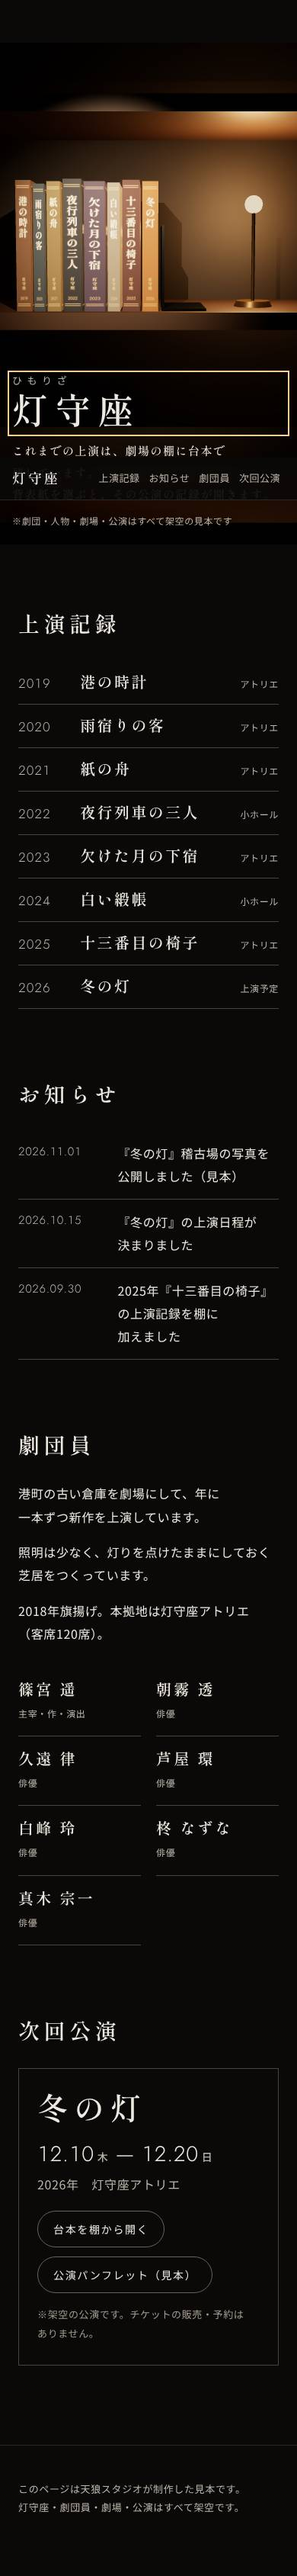
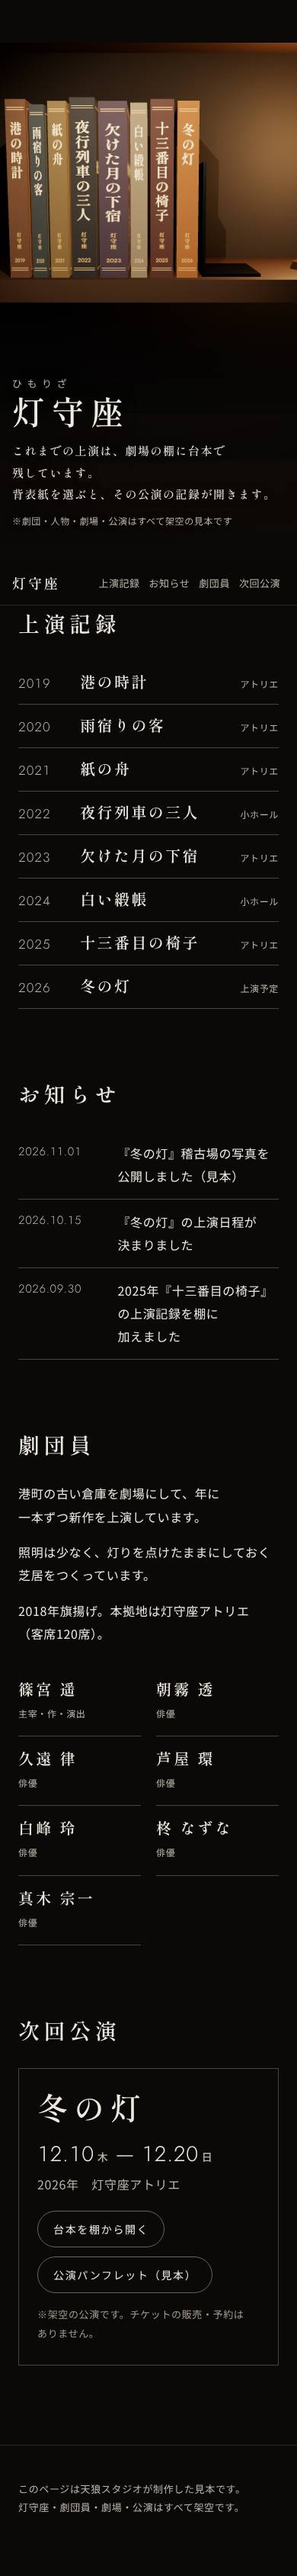
S02-03：審査1回目の指摘を反映（facts に無い通し番号を消す、台本を抜く予備動作とばねの回転、選んだ本に一灯を寄せる、表紙に配役、スマホの構図、不明な id、キーボードで背表紙を選ぶ）
Claude-Session: https://claude.ai/code/session_01BwmUGTgfPEj1Tu5124aDtq

Changed region(s): [[0.0, 0.0, 1.0, 0.2176], [0.1538, 0.2176, 0.1846, 0.2487]]

diff --git a/studio/projects/S02-03-troupe-site/site/app.js b/studio/projects/S02-03-troupe-site/site/app.js
@@ -30,13 +30,14 @@ if (nx) {
 }
 
 // 記録を開く・閉じる（#/w/<id> で開き、#/ で棚に戻す）
-let onSelect = () => {};
+let onSelect = () => {}, lastLink = null;
+document.addEventListener('click', e => { const a = e.target.closest && e.target.closest('a[href^="#/w/"]'); if (a) lastLink = a; });
 function route() {
   const m = location.hash.match(/^#\/w\/([\w-]+)/), w = m && F.works.find(x => x.id === m[1]);
   for (const a of Object.values(links)) a.removeAttribute('aria-current');
   if (w) {
     $('d-year').textContent = String(w.year); $('d-title').textContent = w.title;
-    $('d-status').textContent = w.status === 'planned' ? '上演予定（この台本はまだ稽古中です）' : `第${F.works.indexOf(w) + 1}回公演`;
+    $('d-status').textContent = w.status === 'planned' ? '上演予定（この台本はまだ稽古中です）' : `${w.year}年 上演`;
     $('d-when').textContent = when(w); $('d-venue').textContent = w.venue; $('d-cast').textContent = w.cast.join('　');
     $('d-log').textContent = w.logline; $('d-syn').textContent = w.synopsis;
     const dl = $('d-link'); dl.textContent = '';
@@ -44,9 +45,10 @@ function route() {
     $('detail').hidden = false; document.querySelector('.shelf').classList.add('open'); links[w.id].setAttribute('aria-current', 'page');
     document.querySelector('.shelf').scrollIntoView({ block: 'start', behavior: reduce ? 'instant' : 'smooth' });
     $('detail').focus({ preventScroll: true }); onSelect(w.id);
-  } else if (location.hash === '#/' || location.hash === '') {
+  } else if (m || location.hash === '#/' || location.hash === '') {
+    if (m) history.replaceState(null, '', '#/');
     const was = !$('detail').hidden; $('detail').hidden = true; document.querySelector('.shelf').classList.remove('open'); onSelect(null);
-    if (was) $('h-shelf').focus({ preventScroll: true });
+    if (was) (lastLink || $('shelf')).focus({ preventScroll: true });
   }
 }
 $('h-shelf').tabIndex = -1;
@@ -60,7 +62,7 @@ addEventListener('keydown', e => { if (e.key === 'Escape' && !$('detail').hidden
   const cv = $('shelf'), box = cv.parentElement;
   const r = new THREE.WebGLRenderer({ canvas: cv, antialias: true });
   r.setPixelRatio(Math.min(2, devicePixelRatio)); r.shadowMap.enabled = true; r.shadowMap.type = THREE.PCFSoftShadowMap;
-  r.toneMapping = THREE.ACESFilmicToneMapping; r.toneMappingExposure = 1.0; r.outputColorSpace = THREE.SRGBColorSpace;
+  r.toneMapping = THREE.ACESFilmicToneMapping; r.toneMappingExposure = .8; r.outputColorSpace = THREE.SRGBColorSpace;
   const scene = new THREE.Scene(); scene.background = new THREE.Color(0x0a0908);
   const cam = new THREE.PerspectiveCamera(34, 1, .01, 20);
   const std = (c, ro = .7, me = 0) => new THREE.MeshStandardMaterial({ color: c, roughness: ro, metalness: me });
@@ -84,6 +86,7 @@ addEventListener('keydown', e => { if (e.key === 'Escape' && !$('detail').hidden
   const books = []; let x = -.2;
   F.works.forEach((w, i) => {
     const t = TH[i % TH.length], h = HT[i % HT.length];
+    const light = new THREE.Color(w.color).getHSL({}).l > .38;
     const spine = tex(128, 1024, (g, W, H) => {
       cloth(g, W, H, w.color); g.strokeStyle = gold; g.lineWidth = 3;
       for (const y of [46, 58, H - 58, H - 46]) { g.beginPath(); g.moveTo(10, y); g.lineTo(W - 10, y); g.stroke(); }
@@ -91,20 +94,22 @@ addEventListener('keydown', e => { if (e.key === 'Escape' && !$('detail').hidden
       const cs = [...w.title], fs = Math.min(76, 640 / cs.length); g.font = `600 ${fs}px "Shippori Mincho", serif`;
       cs.forEach((c, k) => g.fillText(c, W / 2, 130 + fs * .55 + k * fs * 1.08));
       g.fillStyle = gold; g.font = '600 30px "Shippori Mincho", serif'; [...F.troupe].forEach((c, k) => g.fillText(c, W / 2, H - 250 + k * 34));
-      g.font = '300 30px Jost, sans-serif'; g.fillText(String(w.year), W / 2, H - 100);
+      g.font = '400 30px Jost, sans-serif'; g.fillStyle = light ? '#2a2622' : gold; g.fillText(String(w.year), W / 2, H - 100);
     });
     const cover = tex(720, 1024, (g, W, H) => {
       cloth(g, W, H, w.color); g.strokeStyle = gold; g.lineWidth = 3; g.strokeRect(46, 46, W - 92, H - 92);
       g.fillStyle = '#f2e6cf'; g.textAlign = 'center'; g.textBaseline = 'middle';
       const fs = Math.min(92, 560 / [...w.title].length); g.font = `600 ${fs}px "Shippori Mincho", serif`; g.fillText(w.title, W / 2, H * .38);
       g.fillStyle = gold; g.font = '500 30px "Shippori Mincho", serif'; g.fillText(`${F.troupe}　上演台本`, W / 2, H * .38 + fs + 20);
-      g.font = '300 34px Jost, sans-serif'; g.fillText(String(w.year), W / 2, H - 140);
+      g.fillStyle = '#efe3cc'; g.font = '500 26px "Shippori Mincho", serif'; g.fillText('配役', W / 2, H * .62);
+      w.cast.forEach((c, k) => g.fillText(c, W / 2, H * .62 + 44 + k * 38));
+      g.fillStyle = gold; g.font = '300 34px Jost, sans-serif'; g.fillText(String(w.year), W / 2, H - 110);
     });
     const cm = new THREE.MeshStandardMaterial({ map: cover, roughness: .72 }), sm = new THREE.MeshStandardMaterial({ map: spine, roughness: .7 }), pm = new THREE.MeshStandardMaterial({ map: paper, roughness: .9 }), bm = std(new THREE.Color(w.color), .75);
     const mesh = new THREE.Mesh(new THREE.BoxGeometry(t, h, DP), [cm, bm, pm, pm, sm, pm]);
     mesh.castShadow = mesh.receiveShadow = true; mesh.userData.id = w.id;
     const g = new THREE.Group(); g.position.set(x + t / 2, h / 2, .118 - DP / 2); g.add(mesh); scene.add(g);
-    books.push({ w, g, mesh, x: x + t / 2, h, cur: { pull: 0, rot: 0, lift: 0, glow: 0 }, sm });
+    books.push({ w, g, mesh, x: x + t / 2, h, cur: { pull: 0, rot: 0, lift: 0, glow: 0, rv: 0 }, sm });
     x += t + .004;
   });
   // ブックエンド（右）
@@ -116,17 +121,18 @@ addEventListener('keydown', e => { if (e.key === 'Escape' && !$('detail').hidden
   const ghost = new THREE.PointLight(0xffc98a, .5, 1.2, 2); ghost.position.copy(bulb.position); scene.add(ghost);
 
   // 照明：上の段から台本を照らすクリップライト、奥からかすかなリム
-  const key = new THREE.SpotLight(0xffe3c0, 2.4, 3, .6, .75, 1.6); key.position.set(-.05, .3, .5); key.target.position.set(-.05, .08, .05);
+  const key = new THREE.SpotLight(0xffe3c0, 1.9, 3, .6, .45, 1.6); key.position.set(-.05, .3, .5); key.target.position.set(-.05, .08, .05);
   key.castShadow = true; key.shadow.mapSize.set(2048, 2048); key.shadow.bias = -.0003; key.shadow.camera.near = .05; scene.add(key, key.target);
-  scene.add(new THREE.HemisphereLight(0x2a2a36, 0x0a0806, .35));
+  const hemi = new THREE.HemisphereLight(0x2a2a36, 0x0a0806, .35); scene.add(hemi);
+  const keyHome = key.target.position.clone();
 
   // 視点
   const V = (a, b, c) => new THREE.Vector3(a, b, c);
   let selected = null, hovered = null;
   const camCur = { p: V(0, .12, 1.4), l: V(0, .08, 0) }, camTo = { p: V(), l: V() };
   function home() {
-    const a = cam.aspect, half = a < 1 ? .27 : .38, d = half / (Math.tan(cam.fov * Math.PI / 360) * a);
-    camTo.p.set(.015, a < 1 ? .1 : .1, Math.max(.5, d)); camTo.l.set(.015, a < 1 ? .02 : .06, 0);
+    const a = cam.aspect, half = a < 1 ? .21 : .38, d = half / (Math.tan(cam.fov * Math.PI / 360) * a);
+    camTo.p.set(.015, a < 1 ? .1 : .1, Math.max(.5, d)); camTo.l.set(a < 1 ? -.03 : .015, a < 1 ? -.04 : .06, 0); if (a < 1) camTo.p.x = -.03;
   }
   function focusBook(b) {
     const wide = innerWidth >= 900, sh = wide ? .085 : 0;
@@ -142,22 +148,39 @@ addEventListener('keydown', e => { if (e.key === 'Escape' && !$('detail').hidden
   const pick = e => { const q = cv.getBoundingClientRect(); ptr.set((e.clientX - q.left) / q.width * 2 - 1, -(e.clientY - q.top) / q.height * 2 + 1); ray.setFromCamera(ptr, cam); const hit = ray.intersectObjects(books.map(b => b.mesh))[0]; return hit ? books.find(b => b.mesh === hit.object) : null; };
   cv.addEventListener('pointermove', e => { if (e.pointerType !== 'mouse') return; hovered = pick(e); cv.style.cursor = hovered ? 'pointer' : 'default'; });
   cv.addEventListener('pointerleave', () => { hovered = null; });
+  // キーボード：←→で背表紙を選び、Enter で開く
+  let kbd = null; cv.tabIndex = 0; cv.setAttribute('role', 'group'); cv.setAttribute('aria-label', '台本の棚。左右の矢印で背表紙を選び、Enter で開きます'); cv.removeAttribute('aria-hidden');
+  const say = el('p', 'sr'); say.setAttribute('aria-live', 'polite'); box.append(say);
+  cv.addEventListener('keydown', e => {
+    if (e.key === 'ArrowRight' || e.key === 'ArrowLeft') { e.preventDefault(); const i = kbd ? books.indexOf(kbd) : -1; kbd = books[(i + (e.key === 'ArrowRight' ? 1 : books.length - 1 + (i < 0 ? 1 : 0))) % books.length]; say.textContent = `${kbd.w.year}年『${kbd.w.title}』`; }
+    if (e.key === 'Enter' && kbd) location.hash = `#/w/${kbd.w.id}`;
+  });
+  cv.addEventListener('blur', () => { kbd = null; });
   cv.addEventListener('click', e => { const b = pick(e); if (b) location.hash = `#/w/${b.w.id}`; });
 
-  let last = performance.now();
+  let last = performance.now(); const tmpV = new THREE.Vector3();
   function frame(now) {
     const dt = Math.min(.05, (now - last) / 1000); last = now;
     const k = reduce ? 1 : 1 - Math.exp(-dt * 7), kc = reduce ? 1 : 1 - Math.exp(-dt * 3.2);
     for (const b of books) {
-      const sel = b === selected, hov = b === hovered && !selected;
-      const to = { pull: sel ? .2 : hov ? .035 : 0, rot: sel ? -Math.PI / 2 : 0, lift: sel ? .025 : 0, glow: sel || hov ? 1 : 0 };
-      // 抜き出してから回す（棚にぶつけない）：回転は引き出し量が 0.14 を超えてから追う
-      const c = b.cur; c.pull += (to.pull - c.pull) * k; c.lift += (to.lift - c.lift) * k; c.glow += (to.glow - c.glow) * k;
-      const rotTo = sel ? (c.pull > .14 ? to.rot : 0) : (c.pull < .1 ? 0 : c.rot); c.rot += (rotTo - c.rot) * k;
-      if (!sel && c.rot !== 0) c.rot += (0 - c.rot) * k;
+      const sel = b === selected, hov = (b === hovered || b === kbd) && !selected, c = b.cur;
+      if (sel && !c.was) { c.was = true; c.t0 = now; } if (!sel) c.was = false;
+      const age = sel ? (now - c.t0) / 1000 : 9;
+      // 選んだら 80ms だけ奥へ押し込んでから引き出す（手で本を抜く予備動作）
+      const to = { pull: sel ? (age < .08 && !reduce ? -.006 : .2) : hov ? .012 : 0, rot: sel ? -Math.PI / 2 : 0, lift: sel ? .025 : hov ? .004 : 0, glow: sel || hov ? 1 : 0 };
+      if (reduce) { c.pull = to.pull; c.lift = to.lift; c.glow = to.glow; c.rot = to.rot; c.rv = 0; }
+      else {
+        c.pull += (to.pull - c.pull) * k; c.lift += (to.lift - c.lift) * k; c.glow += (to.glow - c.glow) * k;
+        // 回転は引き出しが 0.14 を超えてから。ばね（少しだけ行き過ぎて戻る）
+        const rt = sel ? (c.pull > .14 ? to.rot : 0) : (c.pull < .1 || c.rot === 0 ? 0 : 0);
+        const w0 = 10, z = .78; c.rv += (-(w0 * w0) * (c.rot - rt) - 2 * z * w0 * c.rv) * dt; c.rot += c.rv * dt;
+      }
       b.g.position.z = .118 - DP / 2 + c.pull; b.g.position.y = b.h / 2 + c.lift; b.g.rotation.y = c.rot;
       b.sm.emissive.setRGB(.06 * c.glow, .045 * c.glow, .02 * c.glow);
     }
+    // 選んだ本に一灯を寄せ、ほかの本も少しだけ見えるように
+    const kt = selected ? tmpV.set(selected.x, .12, .25) : keyHome; key.target.position.lerp(kt, reduce ? 1 : 1 - Math.exp(-dt * 6));
+    hemi.intensity += ((selected ? .6 : .35) - hemi.intensity) * (reduce ? 1 : 1 - Math.exp(-dt * 4));
     camCur.p.lerp(camTo.p, kc); camCur.l.lerp(camTo.l, kc);
     cam.position.copy(camCur.p); if (!reduce) cam.position.x += Math.sin(now / 4000) * .004; cam.lookAt(camCur.l);
     ghost.intensity = .5 + (reduce ? 0 : Math.sin(now / 1300) * .03);

diff --git a/studio/projects/S02-03-troupe-site/site/index.html b/studio/projects/S02-03-troupe-site/site/index.html
@@ -6,7 +6,7 @@
 <title>灯守座 公式サイト</title>
 <meta name="description" content="架空の劇団・灯守座の公式サイト。これまでの上演が、劇場の棚に並ぶ台本として並ぶ見本（天狼スタジオ制作）。">
 <link rel="preconnect" href="https://fonts.googleapis.com">
-<link id="fm" rel="stylesheet" href="https://fonts.googleapis.com/css2?family=Shippori+Mincho:wght@500;600&display=swap&text=0123456789%E3%80%80%E3%80%81%E3%80%82%E3%80%8E%E3%80%8F%E3%80%9C%E3%81%82%E3%81%84%E3%81%86%E3%81%88%E3%81%8A%E3%81%8B%E3%81%8C%E3%81%8D%E3%81%8F%E3%81%91%E3%81%92%E3%81%93%E3%81%95%E3%81%96%E3%81%97%E3%81%98%E3%81%99%E3%81%9A%E3%81%9B%E3%81%9D%E3%81%9F%E3%81%A0%E3%81%A3%E3%81%A4%E3%81%A6%E3%81%A7%E3%81%A8%E3%81%A9%E3%81%AA%E3%81%AB%E3%81%AE%E3%81%AF%E3%81%B2%E3%81%B3%E3%81%B6%E3%81%B8%E3%81%B9%E3%81%BE%E3%81%BF%E3%82%80%E3%82%81%E3%82%82%E3%82%89%E3%82%8A%E3%82%8B%E3%82%8C%E3%82%8D%E3%82%8F%E3%82%92%E3%82%93%E3%82%A2%E3%82%A4%E3%82%A6%E3%82%A7%E3%82%A8%E3%82%AA%E3%82%AB%E3%82%AF%E3%82%B1%E3%82%B4%E3%82%B5%E3%82%B7%E3%82%B8%E3%82%B9%E3%82%BF%E3%83%81%E3%83%83%E3%83%87%E3%83%88%E3%83%89%E3%83%91%E3%83%95%E3%83%96%E3%83%97%E3%83%9A%E3%83%9B%E3%83%A0%E3%83%A7%E3%83%A9%E3%83%AA%E3%83%AB%E3%83%AC%E3%83%B3%E3%83%BB%E3%83%BC%E4%B8%80%E4%B8%89%E4%B8%8A%E4%B8%8B%E4%B8%A6%E4%B8%AD%E4%B8%BB%E4%B9%85%E4%B9%97%E4%BA%88%E4%BA%8C%E4%BA%92%E4%BA%94%E4%BA%A4%E4%BA%BA%E4%BB%A3%E4%BB%B6%E4%BC%91%E4%BC%9A%E4%BD%9C%E4%BF%82%E4%BF%B3%E5%80%89%E5%80%9F%E5%82%98%E5%84%AA%E5%85%A5%E5%85%AC%E5%86%85%E5%86%99%E5%86%AC%E5%87%BA%E5%88%86%E5%88%97%E5%88%B6%E5%89%8D%E5%8A%87%E5%8A%A0%E5%8B%95%E5%8C%96%E5%8D%81%E5%8D%8A%E5%8F%96%E5%8F%A3%E5%8F%A4%E5%8F%B0%E5%8F%B3%E5%90%88%E5%90%8C%E5%90%8D%E5%90%91%E5%93%81%E5%93%A1%E5%96%AB%E5%9B%9E%E5%9B%A3%E5%9C%A8%E5%9C%B0%E5%A0%B4%E5%A3%81%E5%A3%8A%E5%A3%AB%E5%A3%B2%E5%A4%8F%E5%A4%9A%E5%A4%9C%E5%A4%A7%E5%A4%A9%E5%A5%A5%E5%A8%98%E5%AD%90%E5%AD%A6%E5%AE%88%E5%AE%97%E5%AE%9A%E5%AE%9F%E5%AE%A2%E5%AE%AE%E5%AE%B0%E5%AE%B6%E5%AE%BF%E5%AF%9D%E5%B0%8F%E5%B0%91%E5%B1%85%E5%B1%8B%E5%B2%AC%E5%B3%B0%E5%B7%9D%E5%B7%BB%E5%B8%83%E5%B8%AD%E5%B8%B0%E5%B8%B3%E5%B9%B4%E5%BA%97%E5%BA%A7%E5%BA%AB%E5%BC%8F%E5%BC%95%E5%BC%B5%E5%BD%B9%E5%BE%8B%E5%BE%8C%E6%88%BB%E6%89%80%E6%8A%9C%E6%8B%A0%E6%8C%81%E6%8C%87%E6%8F%9A%E6%96%87%E6%96%B0%E6%97%97%E6%97%A5%E6%98%8E%E6%99%82%E6%99%A9%E6%9B%B8%E6%9C%80%E6%9C%88%E6%9C%9D%E6%9C%9F%E6%9C%A8%E6%9C%AB%E6%9C%AC%E6%9D%A5%E6%9D%BF%E6%9E%9A%E6%9E%B6%E6%9F%8A%E6%A0%A1%E6%A3%9A%E6%A4%85%E6%A4%9C%E6%A8%AA%E6%AC%A0%E6%AC%A1%E6%AD%A2%E6%AE%8B%E6%AE%B5%E6%AF%8E%E6%B1%BA%E6%B5%81%E6%B8%AC%E6%B8%AF%E6%BC%94%E7%81%AB%E7%81%AF%E7%82%B9%E7%85%A7%E7%89%A9%E7%8B%BC%E7%8E%B2%E7%90%83%E7%90%86%E7%92%B0%E7%94%B1%E7%94%BA%E7%94%BB%E7%95%AA%E7%99%BD%E7%9B%AE%E7%9C%9F%E7%9D%80%E7%9F%A5%E7%A2%BA%E7%A7%BB%E7%A8%8B%E7%A8%BD%E7%A9%BA%E7%AB%8B%E7%AC%AC%E7%AF%A0%E7%B4%84%E7%B4%99%E7%B4%A2%E7%B5%82%E7%B5%90%E7%B7%92%E7%B7%9E%E7%B7%A0%E7%B8%A6%E8%81%9E%E8%83%8C%E8%88%9E%E8%88%9F%E8%89%98%E8%8A%9D%E8%8A%A6%E8%8C%B6%E8%96%84%E8%A1%8C%E8%A1%A8%E8%A3%8F%E8%A3%B8%E8%A6%8B%E8%A6%96%E8%A6%A7%E8%A8%88%E8%A8%98%E8%A9%B1%E8%AA%8D%E8%AA%B0%E8%AD%B0%E8%B2%A8%E8%B2%A9%E8%B2%BC%E8%B5%B0%E8%B6%85%E8%B6%B3%E8%BB%8A%E8%BB%A2%E8%BF%BD%E9%80%8F%E9%81%A0%E9%81%A5%E9%81%B8%E9%87%8D%E9%87%8F%E9%87%91%E9%8C%B2%E9%8D%AE%E9%8D%B5%E9%96%89%E9%96%8B%E9%96%93%E9%9A%9B%E9%9B%91%E9%9B%A8%E9%9B%BB%E9%9C%A7%E9%9D%A2%E9%A0%86%E9%A1%8C%E9%A4%A8%EF%BC%88%EF%BC%89%EF%BC%9A">
+<link id="fm" rel="stylesheet" href="https://fonts.googleapis.com/css2?family=Shippori+Mincho:wght@500;600&display=swap&text=0123456789%E3%80%80%E3%80%81%E3%80%82%E3%80%8E%E3%80%8F%E3%80%9C%E3%81%82%E3%81%84%E3%81%86%E3%81%88%E3%81%8A%E3%81%8B%E3%81%8C%E3%81%8D%E3%81%8E%E3%81%8F%E3%81%91%E3%81%92%E3%81%93%E3%81%95%E3%81%96%E3%81%97%E3%81%98%E3%81%99%E3%81%9A%E3%81%9B%E3%81%9D%E3%81%9F%E3%81%A0%E3%81%A3%E3%81%A4%E3%81%A6%E3%81%A7%E3%81%A8%E3%81%A9%E3%81%AA%E3%81%AB%E3%81%AD%E3%81%AE%E3%81%AF%E3%81%B0%E3%81%B2%E3%81%B3%E3%81%B6%E3%81%B8%E3%81%B9%E3%81%BB%E3%81%BE%E3%81%BF%E3%82%80%E3%82%81%E3%82%82%E3%82%88%E3%82%89%E3%82%8A%E3%82%8B%E3%82%8C%E3%82%8D%E3%82%8F%E3%82%92%E3%82%93%E3%82%A2%E3%82%A4%E3%82%A6%E3%82%A7%E3%82%A8%E3%82%AA%E3%82%AB%E3%82%AD%E3%82%AF%E3%82%B1%E3%82%B4%E3%82%B5%E3%82%B7%E3%82%B8%E3%82%B9%E3%82%BF%E3%83%81%E3%83%83%E3%83%87%E3%83%88%E3%83%89%E3%83%91%E3%83%95%E3%83%96%E3%83%97%E3%83%9A%E3%83%9B%E3%83%9C%E3%83%A0%E3%83%A7%E3%83%A9%E3%83%AA%E3%83%AB%E3%83%AC%E3%83%B3%E3%83%BB%E3%83%BC%E4%B8%80%E4%B8%89%E4%B8%8A%E4%B8%8B%E4%B8%A6%E4%B8%AD%E4%B8%BB%E4%B9%85%E4%B9%97%E4%BA%88%E4%BA%8C%E4%BA%92%E4%BA%94%E4%BA%A4%E4%BA%BA%E4%BB%A3%E4%BB%B6%E4%BC%91%E4%BC%9A%E4%BD%9C%E4%BF%82%E4%BF%B3%E5%80%89%E5%80%9F%E5%82%98%E5%82%99%E5%84%AA%E5%85%A5%E5%85%AC%E5%86%85%E5%86%99%E5%86%AC%E5%87%BA%E5%88%86%E5%88%97%E5%88%B6%E5%89%8D%E5%8A%87%E5%8A%A0%E5%8B%95%E5%8C%96%E5%8D%81%E5%8D%8A%E5%8D%B0%E5%8F%96%E5%8F%A3%E5%8F%A4%E5%8F%B0%E5%8F%B3%E5%90%88%E5%90%8C%E5%90%8D%E5%90%91%E5%93%81%E5%93%A1%E5%96%AB%E5%9B%9E%E5%9B%A3%E5%9C%A8%E5%9C%B0%E5%A0%B4%E5%A3%81%E5%A3%8A%E5%A3%AB%E5%A3%B2%E5%A4%8F%E5%A4%9A%E5%A4%9C%E5%A4%A7%E5%A4%A9%E5%A5%A5%E5%A8%98%E5%AD%90%E5%AD%A6%E5%AE%88%E5%AE%97%E5%AE%9A%E5%AE%9F%E5%AE%A2%E5%AE%AE%E5%AE%B0%E5%AE%B6%E5%AE%BF%E5%AF%84%E5%AF%9D%E5%B0%8F%E5%B0%91%E5%B1%85%E5%B1%8B%E5%B2%AC%E5%B3%B0%E5%B7%9D%E5%B7%A6%E5%B7%BB%E5%B8%83%E5%B8%AD%E5%B8%B0%E5%B8%B3%E5%B9%B4%E5%BA%97%E5%BA%A7%E5%BA%AB%E5%BC%8F%E5%BC%95%E5%BC%B5%E5%BD%B9%E5%BE%8B%E5%BE%8C%E6%88%BB%E6%89%80%E6%89%8B%E6%8A%9C%E6%8A%BC%E6%8B%A0%E6%8C%81%E6%8C%87%E6%8F%9A%E6%96%87%E6%96%B0%E6%97%97%E6%97%A5%E6%98%8E%E6%99%82%E6%99%A9%E6%9B%B8%E6%9C%80%E6%9C%88%E6%9C%9D%E6%9C%9F%E6%9C%A8%E6%9C%AB%E6%9C%AC%E6%9D%A5%E6%9D%BF%E6%9E%9A%E6%9E%B6%E6%9F%8A%E6%A0%A1%E6%A3%9A%E6%A4%85%E6%A4%9C%E6%A8%AA%E6%AC%A0%E6%AC%A1%E6%AD%A2%E6%AE%8B%E6%AE%B5%E6%AF%8E%E6%B1%BA%E6%B5%81%E6%B8%AC%E6%B8%AF%E6%BC%94%E7%81%AB%E7%81%AF%E7%82%B9%E7%85%A7%E7%89%A9%E7%8B%BC%E7%8E%B2%E7%90%83%E7%90%86%E7%92%B0%E7%94%B1%E7%94%BA%E7%94%BB%E7%95%AA%E7%99%BD%E7%9B%AE%E7%9C%9F%E7%9D%80%E7%9F%A2%E7%9F%A5%E7%A2%BA%E7%A7%BB%E7%A8%8B%E7%A8%BD%E7%A9%BA%E7%AB%8B%E7%AF%A0%E7%B4%84%E7%B4%99%E7%B4%A2%E7%B5%82%E7%B5%90%E7%B7%92%E7%B7%9E%E7%B7%A0%E7%B8%A6%E8%81%9E%E8%83%8C%E8%88%9E%E8%88%9F%E8%89%98%E8%8A%9D%E8%8A%A6%E8%8C%B6%E8%96%84%E8%A1%8C%E8%A1%A8%E8%A3%8F%E8%A3%B8%E8%A6%8B%E8%A6%96%E8%A6%A7%E8%A8%88%E8%A8%98%E8%A9%B1%E8%AA%8D%E8%AA%B0%E8%AD%B0%E8%B2%A8%E8%B2%A9%E8%B2%BC%E8%B5%B0%E8%B6%85%E8%B6%B3%E8%BB%8A%E8%BB%A2%E8%BE%BC%E8%BF%BD%E9%80%8F%E9%81%8E%E9%81%A0%E9%81%A5%E9%81%B8%E9%85%8D%E9%87%8D%E9%87%8F%E9%87%91%E9%8C%B2%E9%8D%AE%E9%8D%B5%E9%96%89%E9%96%8B%E9%96%93%E9%9A%9B%E9%9B%91%E9%9B%A8%E9%9B%BB%E9%9C%A7%E9%9D%A2%E9%A0%86%E9%A1%8C%E9%A4%A8%EF%BC%88%EF%BC%89%EF%BC%9A">
 <link rel="stylesheet" href="https://fonts.googleapis.com/css2?family=Noto+Sans+JP:wght@400;500&family=Jost:wght@300;400&display=swap">
 <link rel="stylesheet" href="style.css">
 <script type="importmap">{"imports":{"three":"https://cdn.jsdelivr.net/npm/three@0.160.0/build/three.module.js"}}</script>

diff --git a/studio/projects/S02-03-troupe-site/site/style.css b/studio/projects/S02-03-troupe-site/site/style.css
@@ -32,7 +32,7 @@ a { color: var(--amber); text-underline-offset: .3em; }
 .stagebox canvas { opacity: 0; transition: opacity .4s ease-out; }
 .stagebox canvas.ready { opacity: 1; }
 .stagebox canvas { position: absolute; inset: 0; width: 100%; height: 100%; display: block; cursor: default; touch-action: pan-y; }
-.cap { position: absolute; left: 16px; right: 16px; bottom: 20px; pointer-events: none; }
+.cap { position: absolute; z-index: 1; left: 16px; right: 16px; bottom: 20px; pointer-events: none; }
 .cap h1 { margin: 0; font: 600 clamp(44px, 12vw, 88px)/1.1 var(--mincho); letter-spacing: .2em; text-shadow: 0 0 20px #000; }
 .cap .kana { display: block; font: 300 13px/1 var(--num); letter-spacing: .5em; color: var(--sub); margin-bottom: 10px; font-family: var(--sans); }
 .cap .lead { margin: 12px 0 0; font: 500 15px/1.9 var(--mincho); letter-spacing: .1em; text-shadow: 0 0 12px #000; }
@@ -91,6 +91,14 @@ time, .nw { white-space: nowrap; }
   .stagebox { height: calc(100svh - 56px); }
   .cap { left: 7vw; bottom: 8vh; }
   /* PC では記録を棚の右に重ねる */
-  .detail { position: absolute; top: 0; right: 0; bottom: 0; width: min(460px, 38vw); padding: 56px 44px; overflow-y: auto; background: rgba(13, 12, 11, .94); border-top: 0; border-left: 1px solid var(--line); }
+  .detail { position: absolute; top: 0; right: 0; bottom: 0; width: min(460px, 38vw); padding: 56px 44px; overflow-y: auto; background: #0d0c0b; border-top: 0; border-left: 1px solid var(--line); }
 }
 @media (prefers-reduced-motion: reduce) { html { scroll-behavior: auto; } }
+#h-shelf:focus { outline: none; }
+.sr { position: absolute; width: 1px; height: 1px; overflow: hidden; clip: rect(0 0 0 0); white-space: nowrap; }
+.cap::before { content: ""; position: absolute; left: -16px; right: -16px; bottom: -20px; height: calc(100% + 120px); z-index: -1; background: linear-gradient(to top, rgba(10, 9, 8, .92), rgba(10, 9, 8, .7) 55%, rgba(10, 9, 8, 0)); }
+.cap h1 { font-size: clamp(40px, 11vw, 88px); }
+.stagebox { transition: height .4s ease-out; }
+@media (max-width: 899px) { .shelf.open .stagebox { height: 52svh; min-height: 0; } }
+@media (orientation: landscape) and (max-height: 500px) { .stagebox { min-height: 0; height: calc(100svh - 56px); } }
+@media (prefers-reduced-motion: reduce) { .stagebox { transition: none; } }
